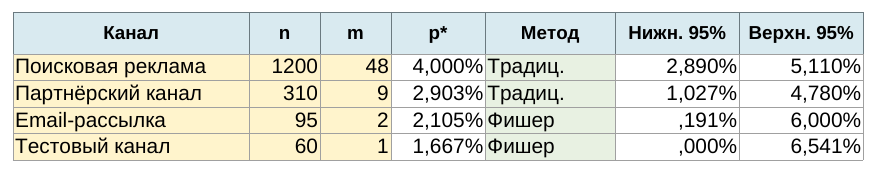
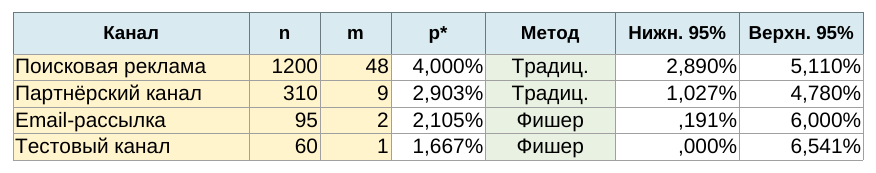
code: выровнены названия методов в таблице Calc

diff --git a/code/scripts/workbooks/ch01/create_interval_estimation_workbook.py b/code/scripts/workbooks/ch01/create_interval_estimation_workbook.py
@@ -155,7 +155,7 @@ def make_fods() -> str:
     <style:style style:name="input" style:family="table-cell"><style:table-cell-properties fo:background-color="#FFF4CC" fo:border="0.06pt solid #A0A0A0"/></style:style>
     <style:style style:name="number" style:family="table-cell"><style:table-cell-properties fo:border="0.06pt solid #A0A0A0"/><style:text-properties fo:font-size="9pt"/></style:style>
     <style:style style:name="percent" style:family="table-cell" style:data-style-name="percent2"><style:table-cell-properties fo:border="0.06pt solid #A0A0A0"/></style:style>
-    <style:style style:name="result" style:family="table-cell"><style:table-cell-properties fo:background-color="#E8F1E2" fo:border="0.06pt solid #A0A0A0"/></style:style>
+    <style:style style:name="result" style:family="table-cell"><style:table-cell-properties fo:background-color="#E8F1E2" fo:border="0.06pt solid #A0A0A0"/><style:paragraph-properties fo:text-align="center"/></style:style>
     <number:percentage-style style:name="percent2"><number:number number:decimal-places="3" number:min-decimal-places="3"/><number:text>%</number:text></number:percentage-style>
   </office:automatic-styles>
   <office:body>